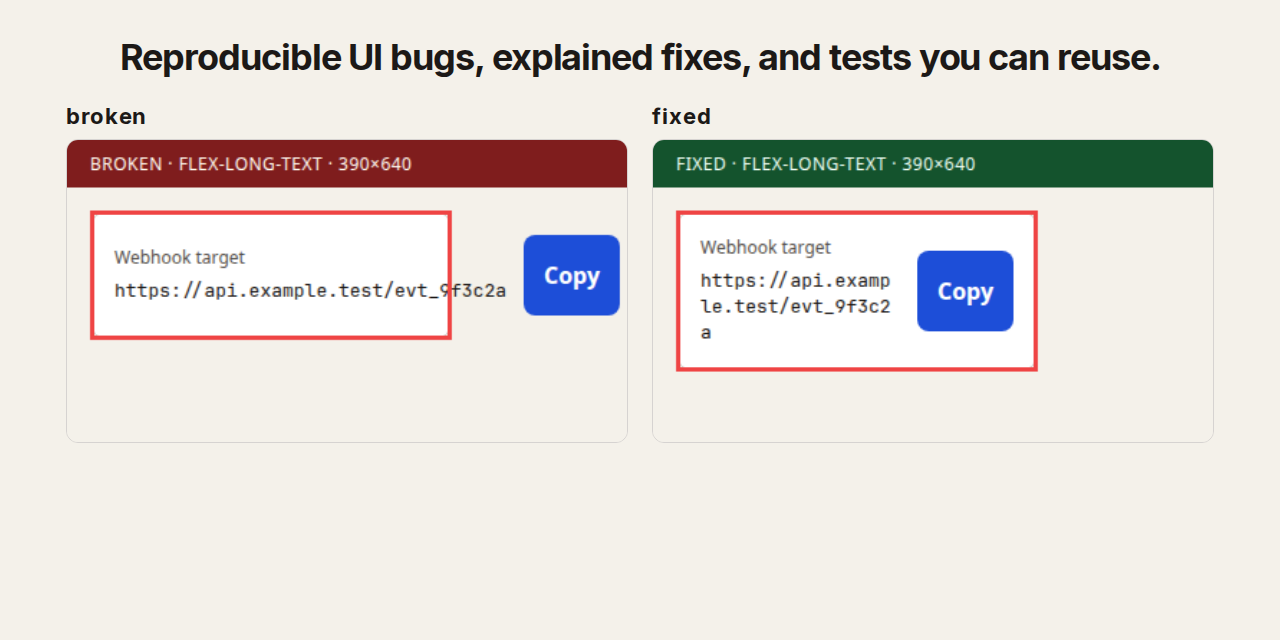
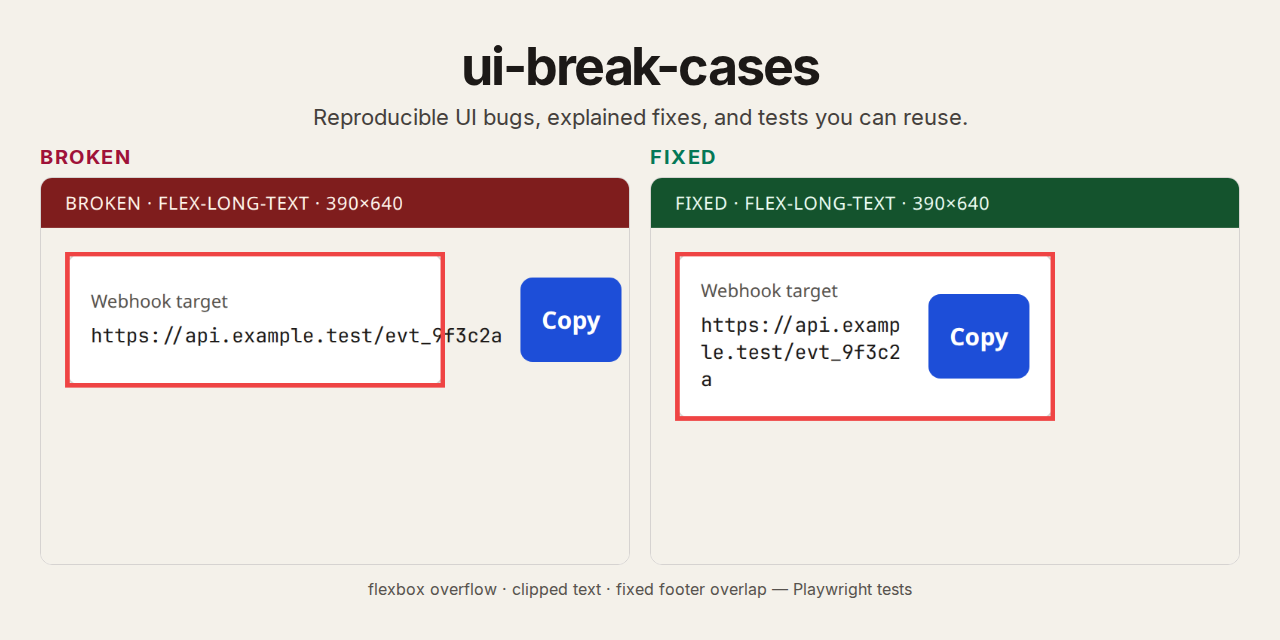
Tune README for search terms and refill the social preview
Replace the H1 and opening copy, add symptom-worded case rows, a Propose a case section, and a Quickstart heading. Rebuild the 1280×640 social PNG from real flex-long-text screenshots with title, tagline, BROKEN/FIXED labels, and a filled canvas.

Changed region(s): [[0.0312, 0.0625, 0.9688, 0.6562], [0.2812, 0.9062, 0.7188, 0.9375]]

diff --git a/README.md b/README.md
@@ -1,16 +1,21 @@
-# ui-break-cases
+# ui-break-cases — reproducible CSS layout bugs, explained fixes, and Playwright tests
 
 [![License: MIT](https://img.shields.io/badge/License-MIT-yellow.svg)](LICENSE)
 [![Playwright](https://img.shields.io/badge/tested%20with-Playwright-2EAD33)](https://playwright.dev)
 [![Chromium only](https://img.shields.io/badge/browser-Chromium%20only-4285F4)](https://www.chromium.org/Home)
+[![3 cases](https://img.shields.io/badge/cases-3-0e8a16)](#cases)
+[![TypeScript](https://img.shields.io/badge/TypeScript-5.9-3178C6)](https://www.typescriptlang.org/)
+[![PRs welcome](https://img.shields.io/badge/PRs-welcome-brightgreen.svg)](CONTRIBUTING.md)
 
 Reproducible UI bugs, explained fixes, and tests you can reuse.
 
-This repository is a small, local collection of interface failures. Each case ships with a broken fixture, a fix that keeps the content and the control, a valid-by-design control, and a Playwright test that asserts the defect or its absence.
+A small collection of real-world CSS layout failures — a long URL overflowing a flex row (`min-width: auto`), text clipped by a fixed-height container (`overflow: hidden`), and a fixed footer covering the last button on short mobile screens. Each case ships a **broken** page, a **fixed** page that keeps the content and the action, a **control** page that looks similar but is valid by design, and a **Playwright test** you can copy and point at your own component.
 
 It is for people who write UI tests or CSS and want a concrete example to copy. It is not a scanner, a benchmark, or a claim that these are the only bugs that matter.
 
 ![Side-by-side comparison of the three fixtures. Left column broken, right column fixed, with capture-only red outlines: a long URL overflowing a flex card while Copy stays on screen; a status sentence clipped to one line; Confirm booking covered by a fixed footer.](docs/media/broken-vs-fixed.gif)
+
+## Quickstart
 
 ```bash
 npm ci
@@ -69,13 +74,17 @@ npm test
 
 ## Cases
 
-| Case | Broken | Fixed | Control |
-| --- | --- | --- | --- |
-| `flex-long-text` (390×640) | An unbreakable URL overflows a flex row and pushes **Copy** out of the card. | `min-width: 0` and `overflow-wrap: anywhere` keep the same URL and the action inside the card. | A code block uses local `overflow-x: auto`. The page does not grow sideways. |
-| `fixed-height-label` (390×640) | A one-line height plus `overflow: hidden` clips a multi-line status sentence. | Height follows the text. The next block stays below it. | Intentional truncation with **Show full summary**. The expanded state is tested. A `title` attribute is not the recovery path. |
-| `fixed-footer-overlap` (360×500) | After scrolling to the end, a `position: fixed` footer covers **Confirm booking**. | `padding-bottom` reserves the footer height. | The same fixed bar with a matching spacer, which is valid. |
+| Case | Broken | Fixed | Control | Fixture / Test |
+| --- | --- | --- | --- | --- |
+| Long URL overflows a flex row (`flex-long-text`, 390×640) | An unbreakable URL overflows a flex row and pushes **Copy** out of the card. | `min-width: 0` and `overflow-wrap: anywhere` keep the same URL and the action inside the card. | A code block uses local `overflow-x: auto`. The page does not grow sideways. | [fixtures](public/fixtures/flex-long-text/) · [test](tests/flex-long-text.spec.ts) |
+| Text clipped by a fixed-height container (`fixed-height-label`, 390×640) | A one-line height plus `overflow: hidden` clips a multi-line status sentence. | Height follows the text. The next block stays below it. | Intentional truncation with **Show full summary**. The expanded state is tested. A `title` attribute is not the recovery path. | [fixtures](public/fixtures/fixed-height-label/) · [test](tests/fixed-height-label.spec.ts) |
+| Fixed footer covers the last button (`fixed-footer-overlap`, 360×500) | After scrolling to the end, a `position: fixed` footer covers **Confirm booking**. | `padding-bottom` reserves the footer height. | The same fixed bar with a matching spacer, which is valid. | [fixtures](public/fixtures/fixed-footer-overlap/) · [test](tests/fixed-footer-overlap.spec.ts) |
 
 Each case lives in `public/fixtures/<id>/{broken,fixed,control}.html`, is listed in `src/cases.ts`, and is covered by `tests/<id>.spec.ts`.
+
+## Propose a case
+
+Have a layout bug that belongs here? Open a [Propose a case](https://github.com/EstebanIndiveri/ui-break-cases/issues/new?template=propose-a-case.yml) issue. A good case is small, reproducible in plain HTML/CSS, and has a fix that keeps the content and the control usable.
 
 ## Adapt a test to another component
 
@@ -141,6 +150,8 @@ See [CONTRIBUTING.md](CONTRIBUTING.md) and [docs/adding-a-case.md](docs/adding-a
 
 These projects are useful neighbors. ui-break-cases does not replace them.
 
+- [Flexbugs](https://github.com/philipwalton/flexbugs)
+- [Pesticide](https://github.com/mrmrs/pesticide)
 - [CSS Flexible Box Layout: automatic minimum size](https://www.w3.org/TR/css-flexbox-1/#min-size-auto)
 - [Defensive CSS](https://defensivecss.dev)
 - [MDN: overflow-wrap](https://developer.mozilla.org/en-US/docs/Web/CSS/overflow-wrap)
